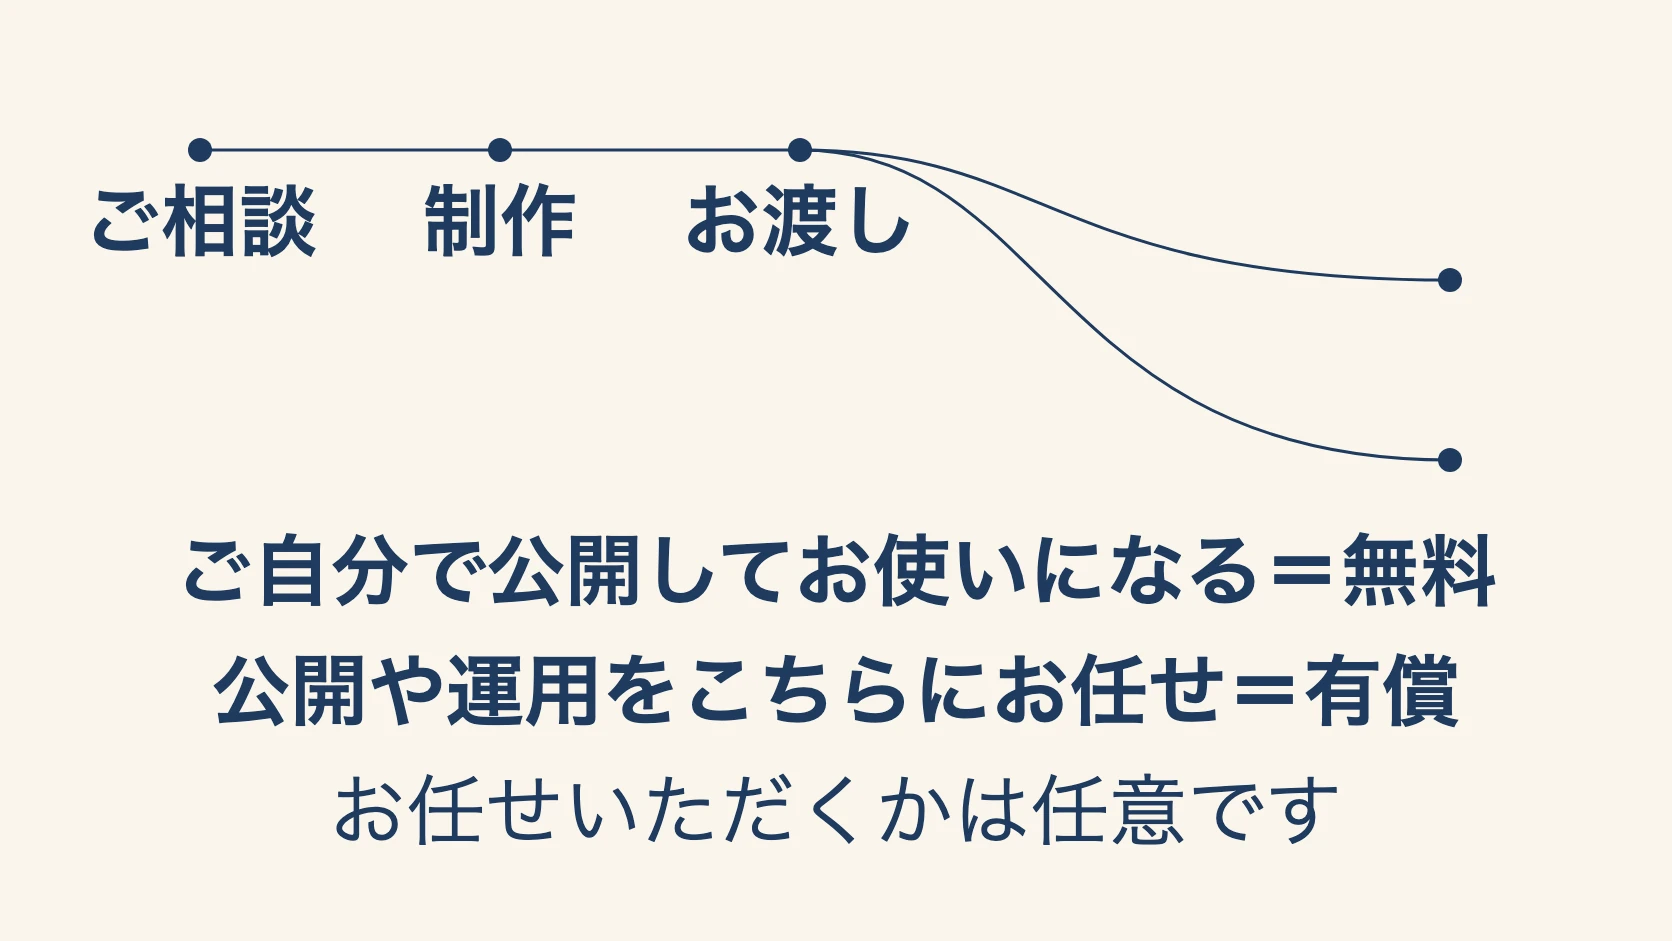
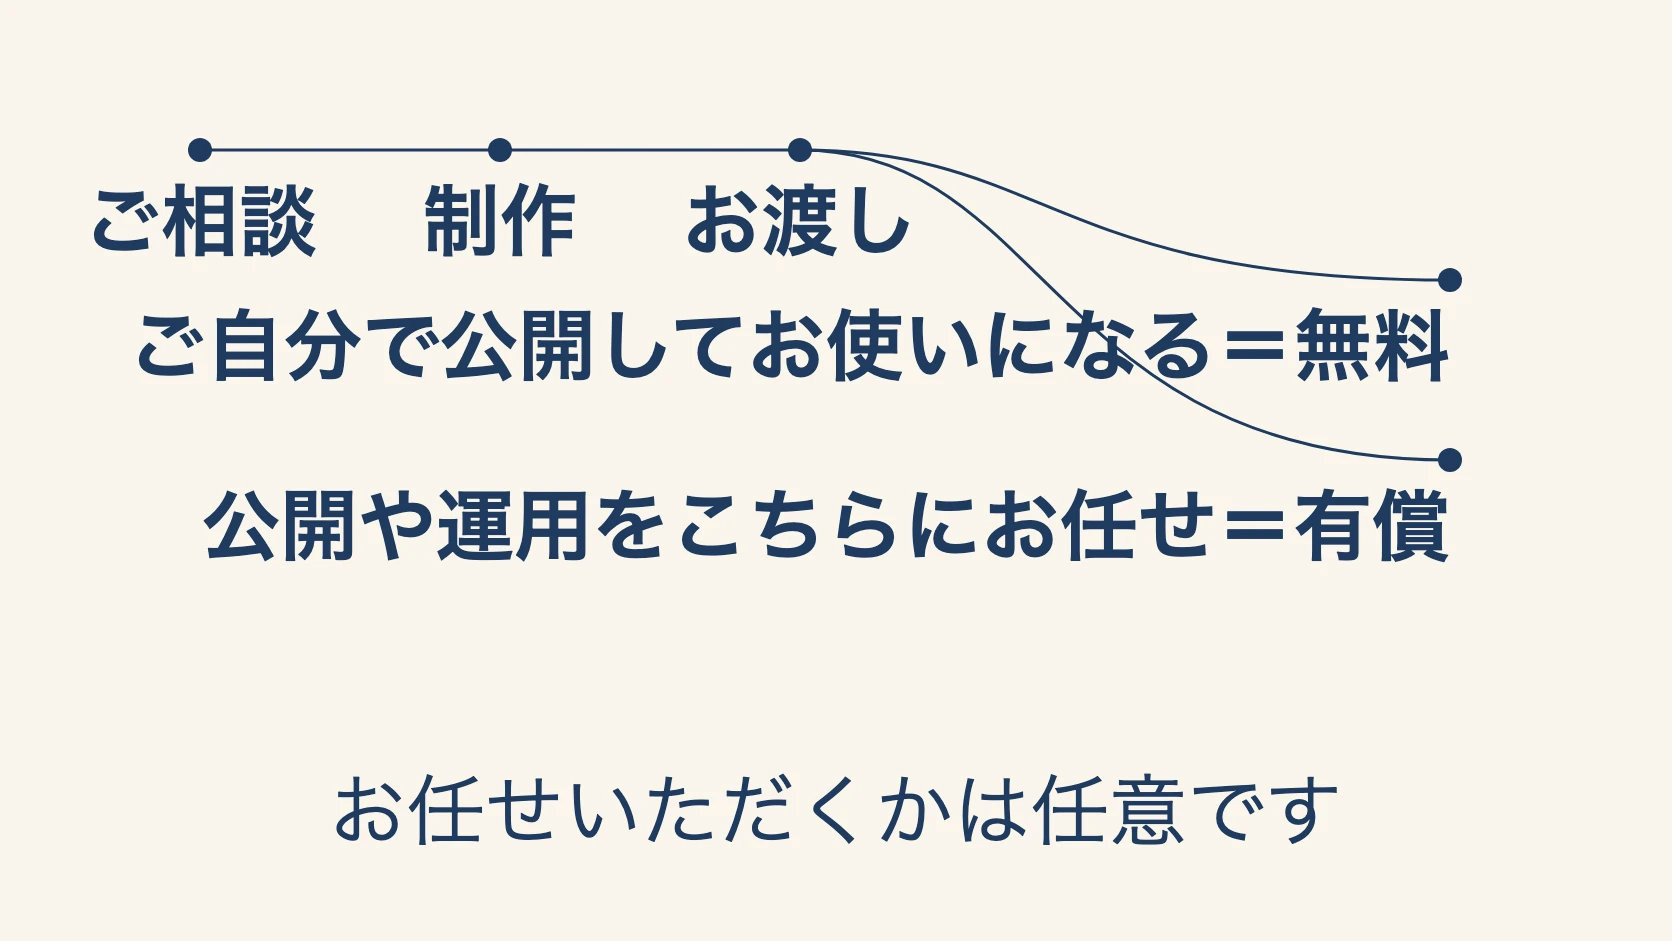
手順の図を「進め方」の節へ移し、図版3枚を新しい原稿で組み直す
steps.webpの掲出を「お渡しするもの」から「進め方」の節の頭へ移す。節の題と絵が入れ違っていたのを正す。scope.webp・pace.webp・steps.webpは、文字の大小に3段の差をつけ、無料/有償の対応関係を明確にした原稿から組み直した画像に差し替える（public/lp/配下、原稿はcatenariaリポジトリ側でコミット済み）。

Changed region(s): [[0.0933, 0.5239, 0.9019, 0.6472], [0.1244, 0.678, 0.8708, 0.7705], [0.0622, 0.3082, 0.8708, 0.4006]]

diff --git a/src/lp/sections/Process.tsx b/src/lp/sections/Process.tsx
@@ -1,3 +1,4 @@
+import { FullImage } from '../components/FullImage'
 import { PROCESS } from '../content'
 
 /**
@@ -12,6 +13,15 @@ export function Process() {
         <h2 id="process-heading" className="lp-process-heading">
           {PROCESS.heading}
         </h2>
+      </div>
+      <FullImage
+        src="/lp/steps.webp"
+        width={1672}
+        height={941}
+        alt="ご相談・制作・お渡しを結ぶ一本の線の先で、ご自分で公開してお使いになる＝無料の道と、公開や運用をこちらにお任せ＝有償の道が対等に分かれる図解。お任せいただくかは任意です"
+        loading="lazy"
+      />
+      <div className="wrap">
         <ol className="lp-process-list">
           {PROCESS.steps.map((step, index) => (
             <li className="lp-process-item" key={step.title}>

diff --git a/src/lp/sections/Offer.tsx b/src/lp/sections/Offer.tsx
@@ -12,13 +12,6 @@ export function Offer() {
           {OFFER.heading}
         </h2>
       </div>
-      <FullImage
-        src="/lp/steps.webp"
-        width={1672}
-        height={941}
-        alt="ご相談・制作・お渡しを結ぶ一本の線の先で、ご自分で公開してお使いになる＝無料の道と、公開や運用をこちらにお任せ＝有償の道が対等に分かれる図解。お任せいただくかは任意です"
-        loading="lazy"
-      />
       <div className="wrap">
         <dl className="lp-offer-list">
           {OFFER.items.map((item) => (
